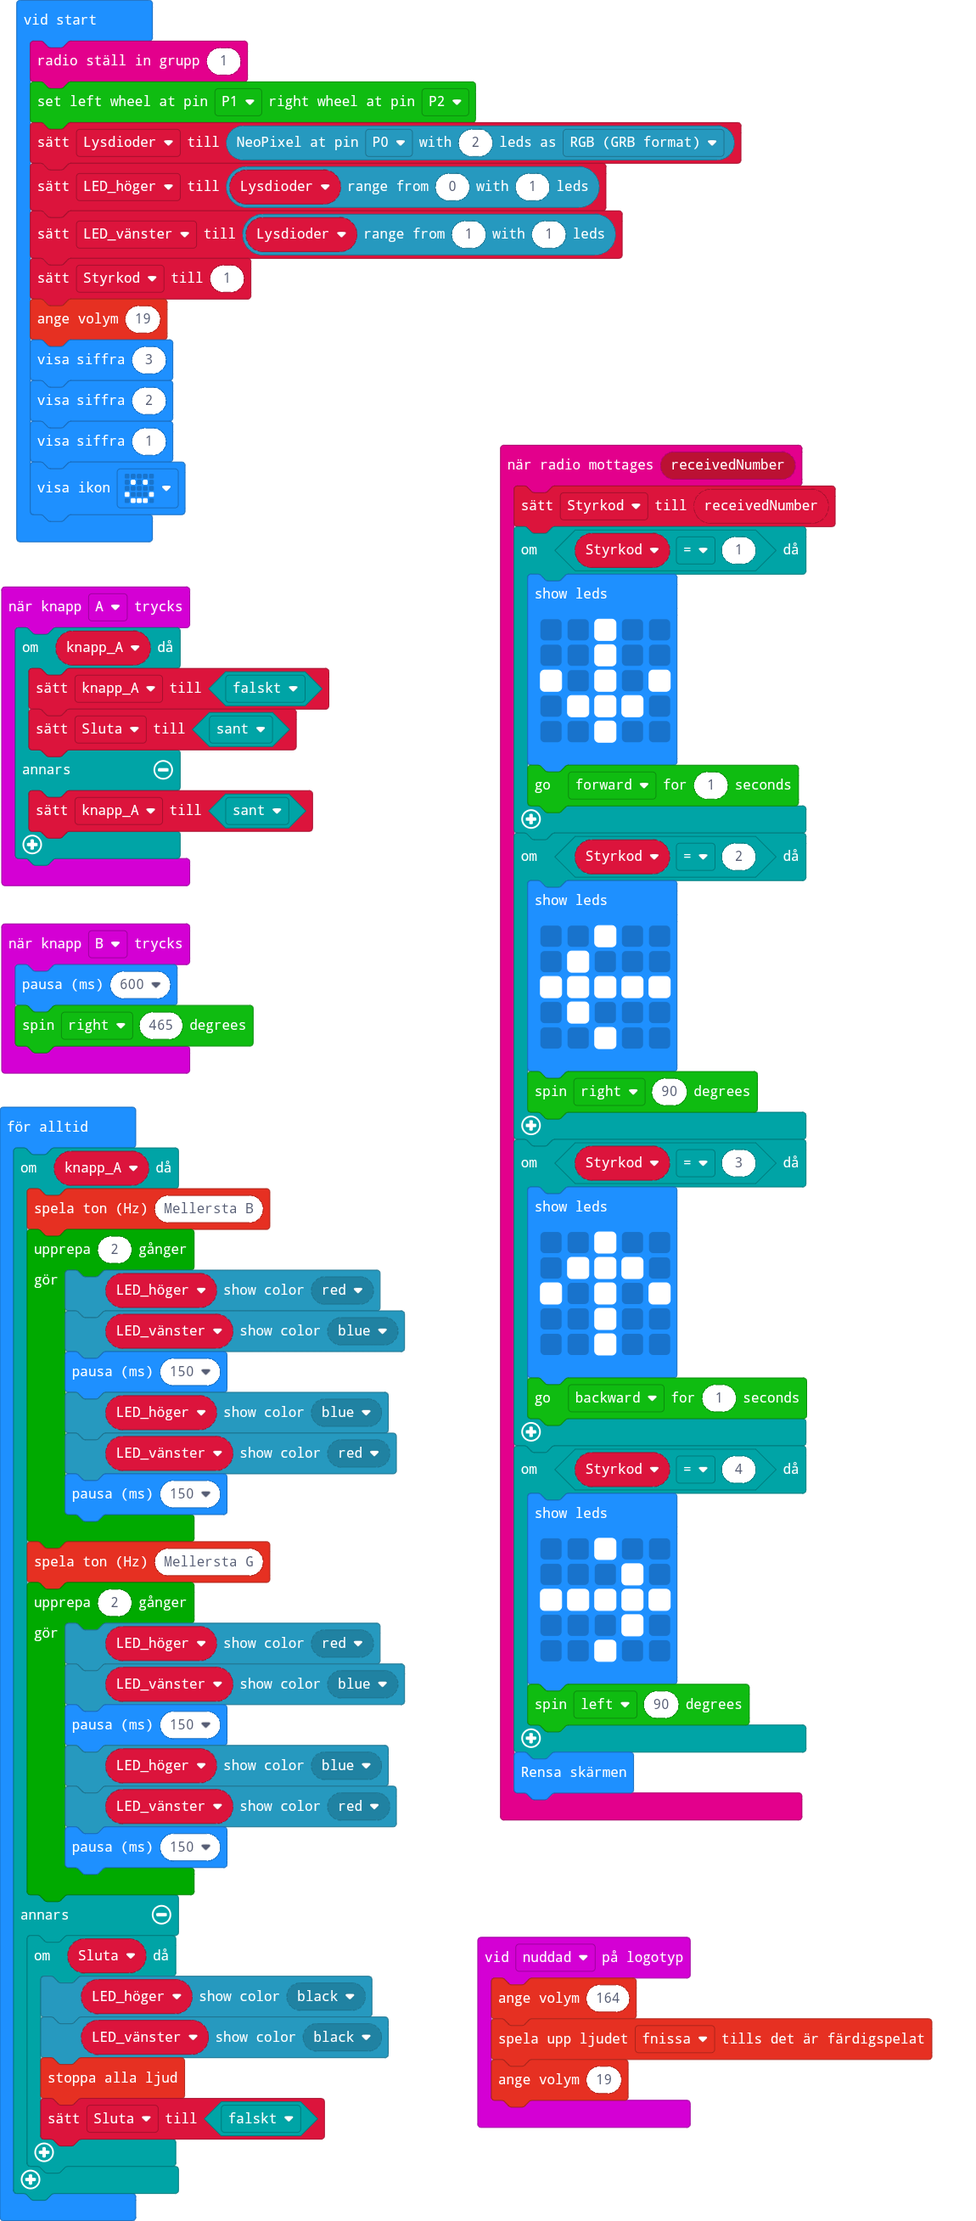
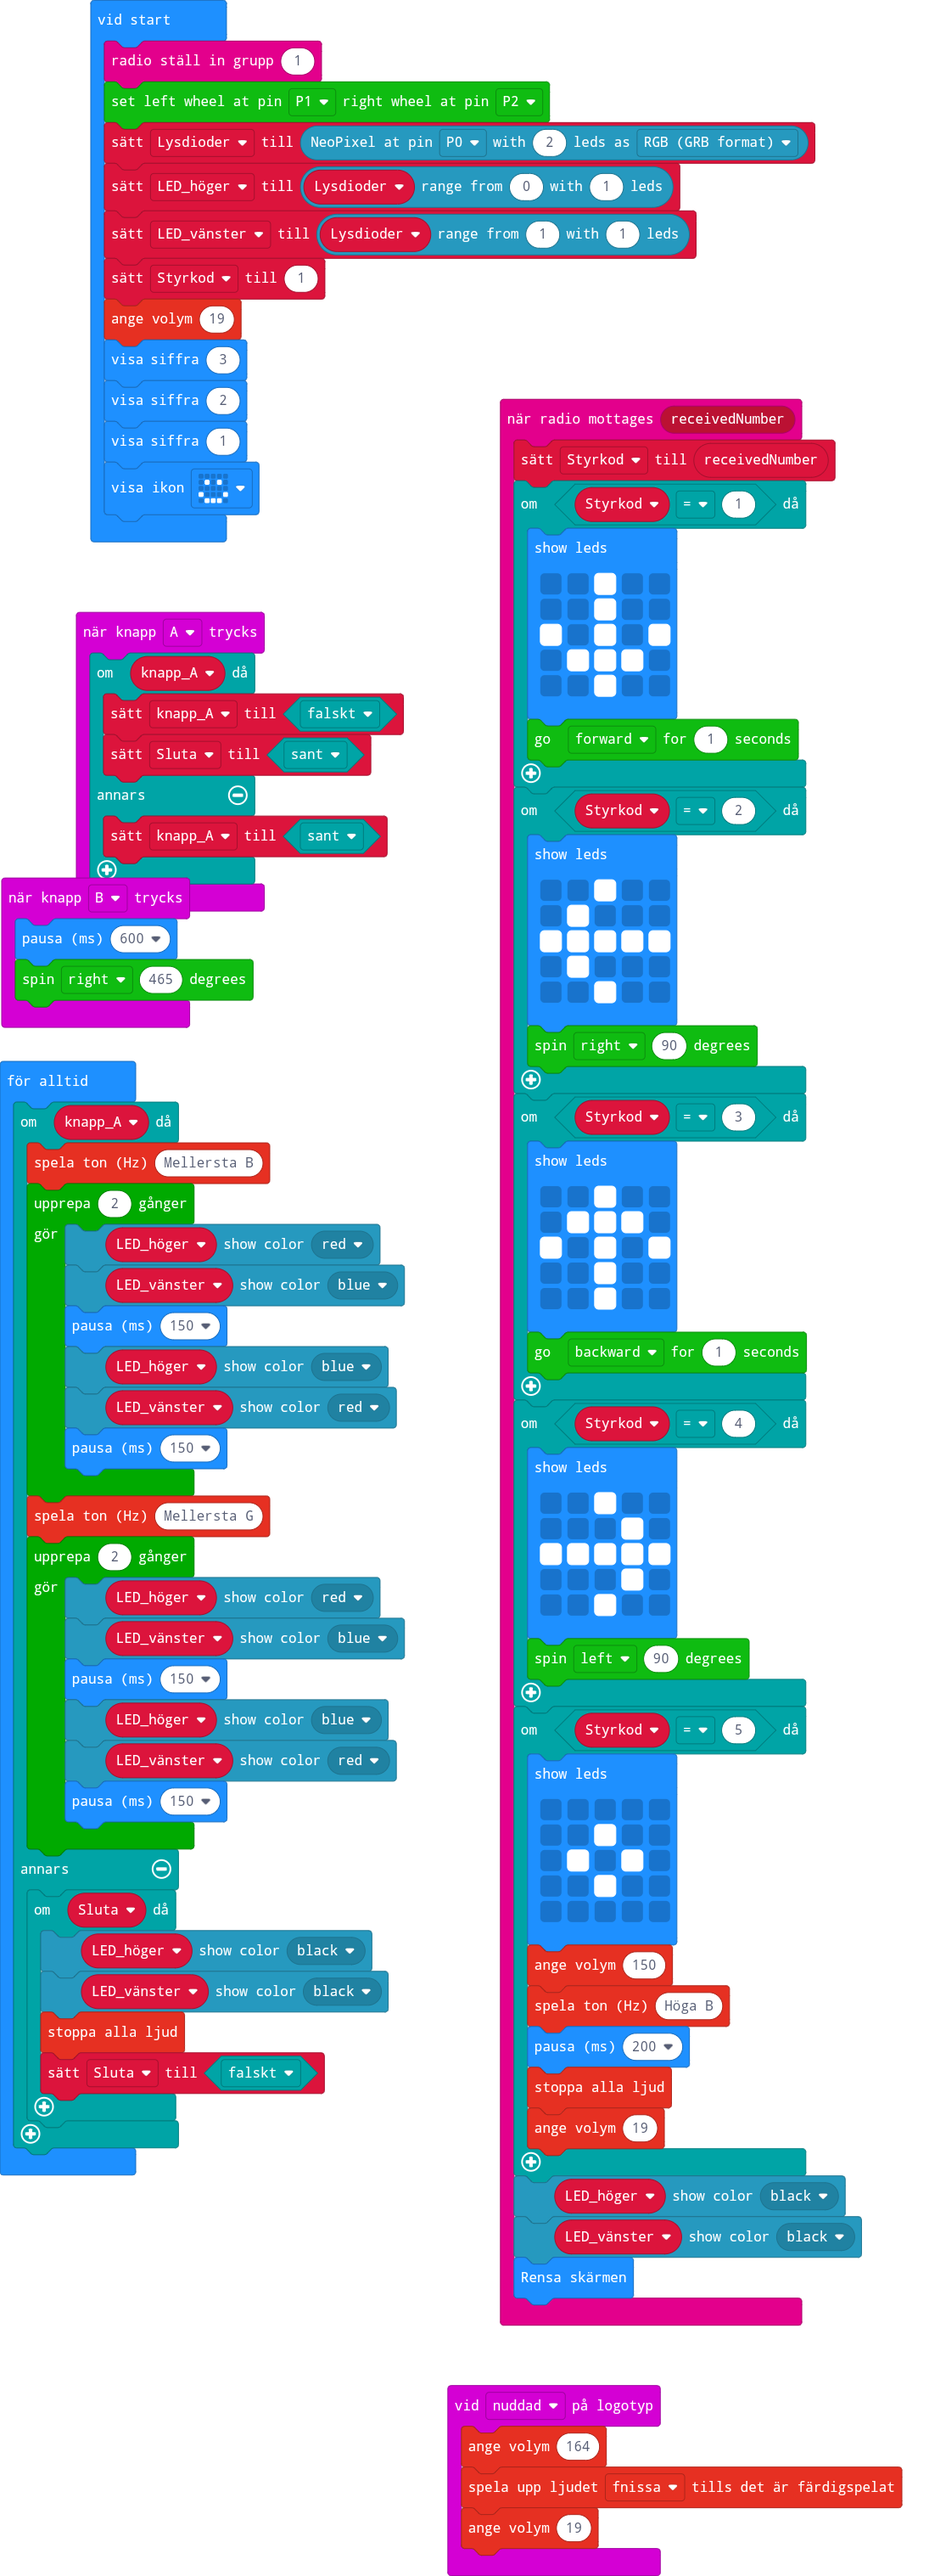
Uppdatera pxt.json, main.blocks, main.ts

diff --git a/main.ts b/main.ts
@@ -45,6 +45,22 @@ radio.onReceivedNumber(function (receivedNumber) {
             `)
         RingbitCar.steering_angle(RingbitCar.Direction_turn.left, 90)
     }
+    if (Styrkod == 5) {
+        basic.showLeds(`
+            . . . . .
+            . . # . .
+            . # . # .
+            . . # . .
+            . . . . .
+            `)
+        music.setVolume(150)
+        music.ringTone(988)
+        basic.pause(200)
+        music.stopAllSounds()
+        music.setVolume(19)
+    }
+    LED_höger.showColor(neopixel.colors(NeoPixelColors.Black))
+    LED_vänster.showColor(neopixel.colors(NeoPixelColors.Black))
     basic.clearScreen()
 })
 input.onButtonPressed(Button.A, function () {
@@ -62,11 +78,13 @@ input.onButtonPressed(Button.B, function () {
 let Sluta = false
 let knapp_A = false
 let Styrkod = 0
+let LED_vänster: neopixel.Strip = null
+let LED_höger: neopixel.Strip = null
 radio.setGroup(1)
 RingbitCar.init_wheel(AnalogPin.P1, AnalogPin.P2)
 let Lysdioder = neopixel.create(DigitalPin.P0, 2, NeoPixelMode.RGB)
-let LED_höger = Lysdioder.range(0, 1)
-let LED_vänster = Lysdioder.range(1, 1)
+LED_höger = Lysdioder.range(0, 1)
+LED_vänster = Lysdioder.range(1, 1)
 Styrkod = 1
 music.setVolume(19)
 basic.showNumber(3)
